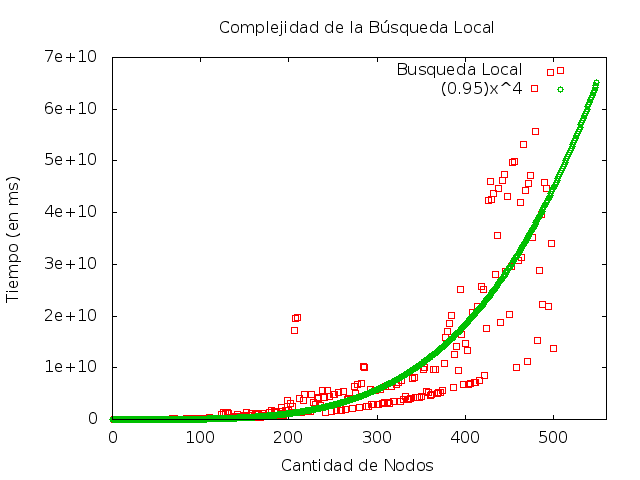
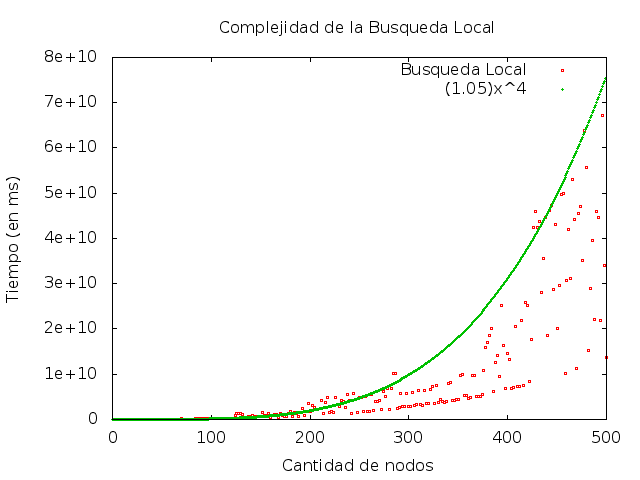
Cambio en el desarrollo 4

diff --git a/tp3/informe/Desarrollo4.tex b/tp3/informe/Desarrollo4.tex
@@ -79,7 +79,7 @@ A continuación, mostramos el pseudocódigo de nuestra algoritmo:  \\
 \subsection{Análisis de Complejidad}
 Para todos los casos, se corre al menos k veces, y para cada una de esas k corridas, se utilizan 3 métodos para intentar hallar una nueva solucion:
 \begin{description}
-\item[2x1:] Se crea una cola de nodos, ordenados por una funcion f (pasada por parametro). Para ello, se recorren todos los posibles pares de nodos dominantes, y para cada par, se analiza si es posible reemplazarlo por un nodo del conjunto dominado, verificando que el conjunto resultante también sea dominado. La complejidad de crear esta cola y hacer éstas verificaciones es de $O(n^4)$, siendo n la cantidad de nodos del grafo. Ésta complejidad se obtiene ya que se recorren los n nodos del grafo para ver todos los pares, y se analiza contra a lo sumo n nodos no dominantes, y se verifica si el conjunto obtenido luego de éste cambio sigue siendo dominante.
+\item[2x1:] Se crea una cola de nodos, ordenados por una funcion f (pasada por parametro). Para ello, se recorren todos los posibles pares de nodos dominantes, y para cada par, se analiza si es posible reemplazarlo por un nodo del conjunto dominado, verificando que el conjunto resultante también sea dominado. La complejidad de crear esta cola y hacer éstas verificaciones es de $O(n^4)$, siendo n la cantidad de nodos del grafo. Ésta complejidad se obtiene ya que, para cada nodo del conjunto dominante (que pueden ser hasta n), se lo agrupa contra los otros nodos del conjunto dominante (a lo sumo n-1), y para cada uno de éstos pares, se le pregunta si se lo pude cambiar con alguno de los (a lo sumo), n nodos dominandos, y que nuestro conjunto siga siendo dominante. Crear los pares de vertices es $O(n^2)$, y para cada una de esas operaciones, se lo compara a lo sumo contra n vértices dominados y se le pregunta si ese cambio hace que nuestro conjunto siga siendo dominante. La complejidad de ésto es también de $O(n^2)$, y se realiza para todos los pares de vértices, por lo que la complejidad final de ésta estrategia es de $(n^4)$.
 \item[QuitarUno:] en éste caso, se recorren todos los nodos del conjunto dominante, y se pregunta si, quitando el nodo en cuestion, el conjunto continúa siendo dominante. Ésta método tiene una complejidad de $O(n^2)$, donde n es la cantidad de nodos del grafo, ya que a lo sumo se recorrerán n nodos, y se lo sacará del conjunto dominante y preguntará si el conjunto sigue siendo dominante (que nos cuesta $O(n)$).
  \item[UnOxUnO] ésta estrategia requiere de recorrer todos los vértices dominantes, y para cada uno de ellos, compararlo con todos los vértices dominados, y fijarme si puedo intercambiar éstos nodos (en cuestión, si tienen los mismos vecinos) de forma tal que el conjunto continue siendo dominante. Esta verificación, en el peor de los casos, tiene una complejidad $O(n^2)$, donde n es la cantidad de nodos del grafo.
 \end{description}
@@ -87,7 +87,8 @@ Para todos los casos, se corre al menos k veces, y para cada una de esas k corri
  Es decir, que la complejidad en todos los casos, no es mayor a $O(n^4)$, ya que en todos los casos se analiza primero la opción de hacer el 2x1. Si puede, la complejidad será esa, y si no puede, seguirá con los otros métodos que, a rasgos generales, nunca superan ésta cota de $O(n^2)$. Por lo que la complejidad general del algoritmo es de \textbf{$O(n^4)$}.
  
  \subsection{Elección de la función a utilizar}
- Una vez analizada la complejidad, nos prestamos a decidir cual de las funciones creadas para ordernar los nodos en la cola de prioridad utilizada para la estrategia 2x1. Para ello, utilizamos como solución inicial los conjuntos dominantes que nos provee el algoritmo greedy analizado en la sección anterior. Corrimos el algoritmo para 500 nodos, para el greedy y luego, a partir de esa solución, corrimos la búsqueda local. \\
+Como comentamos en la sección que hablamos acerca de la solución, cuando creamos los posibles nodos a quitar con la estrategia 2x1, es posible que tengamos una lista de varios candidatos. Y la pregunta que se nos formuló fue: ¿cuál de ellos deberíamos sacar, y por qué? Para ello, creimos conveniente ordenar de alguna forma conveniente todos estos pares de nodos con sus respectivos reemplazantes. Para ello, creamos 3 funciones que ordenan éstas tuplas de nodos, cada una con una idea diferente para intentear ver si alguna de éstas formas de ordenamiento presentaba una mejoría importante respecto a las otras. \\
+Por tanto, una vez analizada la complejidad, nos prestamos a decidir cual de las funciones creadas para ordernar los nodos en la cola de prioridad utilizada para la estrategia 2x1. Para ello, utilizamos como solución inicial los conjuntos dominantes que nos provee el algoritmo greedy analizado en la sección anterior. Corrimos el algoritmo para 500 nodos, para el greedy y luego, a partir de esa solución, corrimos la búsqueda local. \\
 Las funciones creadas para la ocasión son 3, y funciona de la siguiente manera: 
 \begin{description}
 \item[Diferencia de Grados entre el vertice insertado y los reemplazados:] es la suma de los grados de los dos vértices a reemplazar menos el grado del vértice a insertar.
@@ -118,9 +119,10 @@ En primer lugar, le dimos comos solución inicial (es decir, como conjunto domin
 \subsection{Tests y análisis}
 En primer lugar, y para tener acotar siempre la complejidad para el peor caso, en todos los gráficos que presentemos en ésta sección utilizaremos grafos de la familia de Mobius, por lo expuesto en la sección anterior respecto a su complejidad para el algoritmo de búsqueda local. Además, como comentamos también anteriormente, para ordenar los posibles nodos candidatos, utilizaremos la función de comparación \textbf{DiffGrados}.
 Una vez establecida qué función deberíamos utilizar para el 2x1, nos abocamos a testear el método de búsqueda local de acuerdo a la cantidad de nodos del grafo y el tiempo que le consume encontrar una solución. Vale aclarar que no tomamos en consideración el tiempo que nos consume encontrar una solución para darle a la búsqueda local, ya que consideramos que ello no es parte de nuestro algoritmo. De ésta forma, podemos ver que nuestro algoritmo se comporta de forma polinómica en función del tiempo, como lo analizamos en la sección de complejidad. Es decir, mientras mayor cantidad de nodos tenga la solución que nos proveen, y más relacionados estén entre sí dichos nodos (es decir, a través de aristas hacia nodos del mismo conjunto o del conjunto de los dominados), mayor tiempo requerirá calcular nuestra solución. \\
-El siguiente gráfico tiene como función mostrar la complejidad de nuestro algoritmo, que como dijimos tiene una complejidad de $O(n^4)$. El mismo muestra el tiempo que le toma a nuestro algoritmo encontrar la solucion, para grafos que parten desde 2 a 500 nodos. Como dijimos anteriormente, utilizamos grafos de la familia de Mobius. Además, se incluye en el gráfico la función $(0.95x^4)$, para mostrar que, aproximadamente, nuestro algoritmo se comporta de ésta manera.  \\
+El siguiente gráfico tiene como función mostrar la complejidad de nuestro algoritmo, que como dijimos tiene una complejidad de $O(n^4)$. El mismo muestra el tiempo que le toma a nuestro algoritmo encontrar la solucion, para grafos que parten desde 2 a 500 nodos. Como dijimos anteriormente, utilizamos grafos de la familia de Mobius. Además, se incluye en el gráfico la función $(1.05x^4)$, para mostrar que, aproximadamente, nuestro algoritmo se comporta de ésta manera.  \\
 \begin{center}
 \includegraphics[width=17cm]{./graficos/complejidadLocal.png}
 \end{center}
 
-Como se puede apreciar, si bien el algoritmo es mucho mejor que el exacto en función de complejidad, tiene un orden de complejidad mayor que el algoritmo greedy. Además, ésto no nos asegura que la solución que encontramos sea la que efectivamente estamos buscando. En las próximas secciones estudiaremos más a fondo las relaciones entre la cantidad de soluciones encontradas y sus complejidades para las distintos algoritmos, para grafos generados al azar. La idea será determinar en qué situaciones conviene aplicar cual o tal técnica, si es que se puede determinar de antemano.
+En el gráfico anterior podemos apreciar como nuestro algoritmo, a lo sumo, se comporta de de la misma forma que la función polinómica contra la que la comparamos. La dispersión de los puntos se debe a que, de acuerdo a la solución que se le pase al algoritmo y a la solución parcial que se esté construyendo, ésto modifica la performance del mismo. Vale la pena destacar que mientras que la estrategia del 2x1 tiene una complejidad de $O(n^4)$, las otras dos tienen una complejidad de $O(n^2)$, de forma tal que una solución que se construya a base de éstas dos últimas estrategias tendrá una complejidad menor a una que lo haga siempre reemplazando nodos por la estrategia del 2x1. Lo interesante entonces, es, analizar cómo crece el tiempo insumido por nuestro algoritmo a medida que se van agregando nodos al grafo, y se puede ver cómo crece de forma similar a la función estudiada. También podemos ver que hay algunos puntos, aislados, que están por arriba de la cota de la función mencionada, pero son sólo algunos pocos y son valores cercanos a la misma, por lo que la función encontrada es la que mejor se acerca al crecimiento de nuestro algoritmo. Cabe recordar que ésta función es una cota superior para los peores casos, por lo que es de esperar, como comentamos antes, que haya punto que una cantidad de nodos $(n)$ tenga valores bastante lejanos a los de la funcion en ese punto, pero lo interesante es mostrar que, a rasgos generales, el tiempo que se toma nuestro algoritmo aumenta de la misma forma que lo hace ésta función.\\
+Por otro lado, como se puede apreciar, si bien el algoritmo es mucho mejor que el exacto en función de complejidad, tiene un orden de complejidad mayor que el algoritmo greedy. Además, ésto no nos asegura que la solución que encontramos sea la que efectivamente estamos buscando. En las próximas secciones estudiaremos más a fondo las relaciones entre la cantidad de soluciones encontradas y sus complejidades para las distintos algoritmos, para grafos generados al azar. La idea será determinar en qué situaciones conviene aplicar cual o tal técnica, si es que se puede determinar de antemano.
